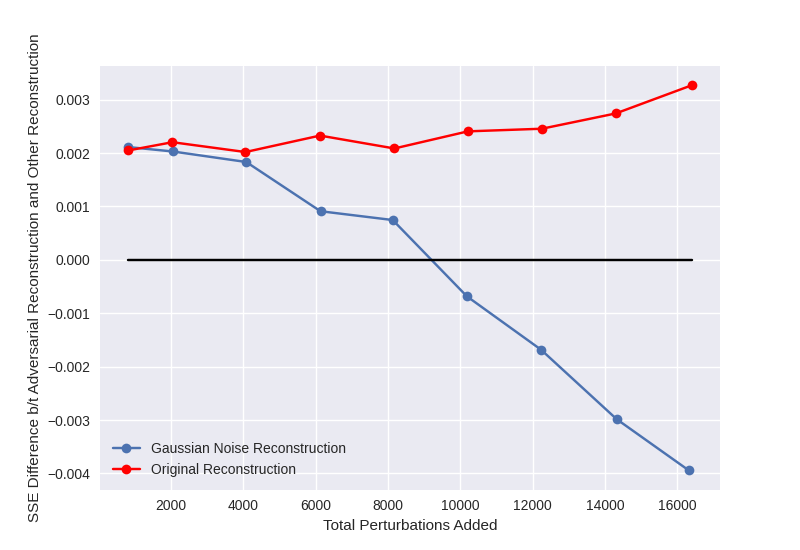
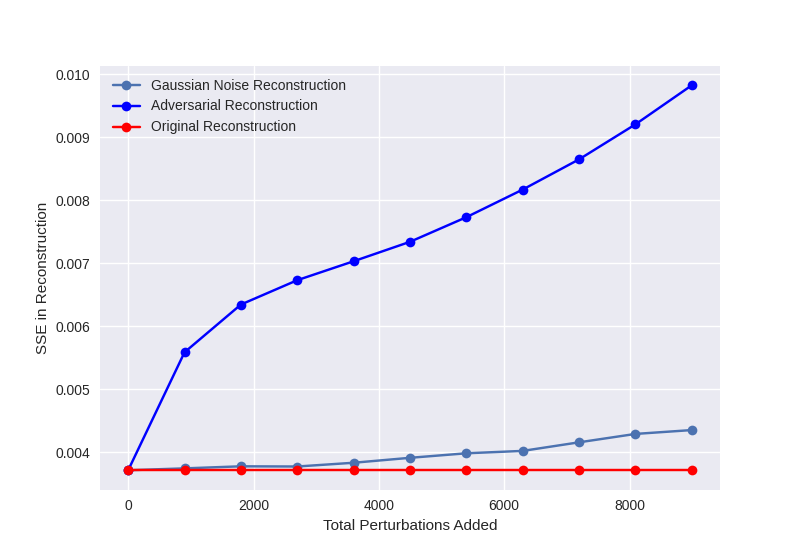
Working adversarial attack

diff --git a/corruptFourier.py b/corruptFourier.py
@@ -10,6 +10,7 @@ import matplotlib.pyplot as plt
 import tensorflow as tf
 import readData as rd
 import misc as sf
+from helper import *
 
 os.environ['TF_CPP_MIN_LOG_LEVEL'] = '2'
 os.environ['OMP_NUM_THREADS'] = '8'
@@ -23,137 +24,77 @@ directory = 'baselineModel'
 model_dir = cwd + '/' + directory
 load_chk_pt = tf.train.latest_checkpoint(model_dir)
 
-# Get data set
-tst_org, tst_inp = rd.get_validation_data(num_from=20, num_img=1, acc=4)
-mu = np.mean(tst_inp, axis=(-1, -2), keepdims=True)
-st = np.std(tst_inp, axis=(-1, -2), keepdims=True)
-tst_inp = (tst_inp - mu) / st
-tst_inp = np.clip(tst_inp, -6, 6)
-tst_org_adv = np.copy(tst_org)
 
-# Corrupt the input Fourier coefficients with Gaussian noise
-mean, std = mu[0][0][0], 0.2
-gauss_noise = np.random.normal(mean, std, tst_inp.shape)
-img_shape = np.shape(tst_inp)
-avg_perturb = np.sum(np.absolute(gauss_noise)) / (img_shape[0] * img_shape[1] * img_shape[2])
-tst_inp_gauss = np.copy(tst_inp) + gauss_noise
+epsilons = [0., 0.5, 1.0, 1.5, 2.0, 2.5, 3., 3.5, 4., 4.5, 5.]
+for epsilon in epsilons:
+    # Get data set
+    tst_org, tst_inp = rd.get_validation_data(num_from=20, num_img=1, acc=4)
+    mu = np.mean(tst_org, axis=(-1, -2), keepdims=True)
+    st = np.std(tst_org, axis=(-1, -2), keepdims=True)
+    tst_inp = (tst_inp - mu) / st
+    tst_inp = np.clip(tst_inp, -6, 6)
+    tst_org_adv = np.copy(tst_org)
+    tst_inp_orig = np.copy(tst_inp)
 
-# Load model and predict
-tst_org_adv = tst_org_adv[..., np.newaxis]
-tst_inp = tst_inp[..., np.newaxis]
-tst_rec = np.empty(tst_inp.shape, dtype=np.float32)
-tst_inp_gauss = tst_inp_gauss[..., np.newaxis]
-tst_rec_gauss = np.empty(tst_inp_gauss.shape, dtype=np.float32)
-tst_inp_adv = np.copy(tst_inp)
-tst_intr_adv = np.empty(tst_inp_adv.shape, dtype=np.float32)
-tst_rec_adv = np.empty(tst_inp_adv.shape, dtype=np.float32)
+    # Load model and predict
+    tst_org_adv = tst_org_adv[..., np.newaxis]
+    tst_inp = tst_inp[..., np.newaxis]
+    tst_rec = np.zeros(tst_inp.shape, dtype=np.float32)
+    tst_inp_adv = np.copy(tst_inp)
+    tst_intr_adv = np.zeros(tst_inp_adv.shape, dtype=np.float32)
+    tst_rec_adv = np.zeros(tst_inp_adv.shape, dtype=np.float32)
 
-# Initialize graph
-tf.compat.v1.reset_default_graph()
-with tf.compat.v1.Session(config=config) as sess:
-    new_saver = tf.compat.v1.train.import_meta_graph(model_dir + '/modelTst.meta')
-    new_saver.restore(sess, load_chk_pt)
-    graph = tf.compat.v1.get_default_graph()
-    predT = graph.get_tensor_by_name('predTst:0')
-    senseT = graph.get_tensor_by_name('sense:0')
+    # Initialize graph
+    tf.compat.v1.reset_default_graph()
+    with tf.compat.v1.Session(config=config) as sess:
+        new_saver = tf.compat.v1.train.import_meta_graph(model_dir + '/modelTst.meta')
+        new_saver.restore(sess, load_chk_pt)
+        graph = tf.compat.v1.get_default_graph()
+        predT = graph.get_tensor_by_name('predTst:0')
+        senseT = graph.get_tensor_by_name('sense:0')
 
-    # Run reconstruction for original and Gaussian noise samples
-    tst_rec[0] = sess.run(predT, feed_dict={senseT: tst_inp[[0]]})
-    tst_rec_gauss[0] = sess.run(predT, feed_dict={senseT: tst_inp_gauss[[0]]})
+        # Run reconstruction for original reconstruction
+        tst_rec[0] = sess.run(predT, feed_dict={senseT: tst_inp[[0]]})
 
-    # Get gradient of loss with respect to input
-    origT = tf.convert_to_tensor(tst_org_adv)
-    loss = tf.norm(predT - origT, ord='euclidean')
-    g = tf.gradients(loss, senseT)
-    sess.run(tf.global_variables_initializer())
-    grad = sess.run(g, feed_dict={senseT: tst_inp[[0]]})
+        # Get gradient of loss with respect to input
+        origT = tf.convert_to_tensor(tst_org_adv)
+        loss = tf.norm(origT - predT, ord='euclidean')
+        g = tf.gradients(loss, senseT)
+        grad = sess.run(g, feed_dict={senseT: tst_inp[[0]]})
 
-    # Create adversarial example and run reconstruction
-    epsilon = avg_perturb
-    sign_grad = np.sign(grad)
-    tst_intr_adv = epsilon * sign_grad[0]
-    tst_inp_adv[[0]] = tst_inp + tst_intr_adv
-    tst_rec_adv[0] = sess.run(predT, feed_dict={senseT: tst_inp_adv[[0]]})
+        # Create adversarial example and run reconstruction
+        tst_intr_adv = epsilon * np.copy(grad)[0]
+        tst_inp_adv += np.copy(tst_intr_adv)
+        tst_rec_adv[0] = sess.run(predT, feed_dict={senseT: tst_inp_adv[[0]]})
 
+        # Corrupt the input Fourier coefficients with Gaussian noise
+        mean, std = mu[0][0][0], st
+        gauss_noise = np.random.normal(mean, std, tst_inp_orig.shape)
+        gauss_noise = gauss_noise * (np.sum(np.absolute(tst_intr_adv)) / np.sum(np.absolute(gauss_noise)))
+        img_shape = np.shape(tst_inp_orig)
+        avg_perturb = np.sum(np.absolute(gauss_noise)) / (img_shape[0] * img_shape[1] * img_shape[2])
+        tst_inp_gauss = np.copy(tst_inp_orig) - np.copy(gauss_noise)
+        tst_inp_gauss = tst_inp_gauss[..., np.newaxis]
+        tst_rec_gauss = np.zeros(tst_inp_gauss.shape, dtype=np.float32)
+        
+        # Run reconstruction for Gaussian case
+        tst_rec_gauss[0] = sess.run(predT, feed_dict={senseT: tst_inp_gauss[[0]]})
 
-# Transform images into original shape
-tst_inp, tst_rec = tst_inp[..., 0], tst_rec[..., 0]
-tst_inp_gauss, tst_rec_gauss = tst_inp_gauss[..., 0], tst_rec_gauss[..., 0]
-tst_inp_adv, tst_intr_adv, tst_rec_adv = tst_inp_adv[..., 0], tst_intr_adv[..., 0], tst_rec_adv[..., 0]
-tst_inp, tst_rec = tst_inp * st + mu, tst_rec * st + mu
-tst_inp_gauss, tst_rec_gauss = tst_inp_gauss * st + mu, tst_rec_gauss * st + mu
-tst_inp_adv, tst_rec_adv = tst_inp_adv * st + mu, tst_rec_adv * st + mu
+    # Transform images into original shape
+    tst_inp = tst_inp[..., 0]
+    tst_rec = tst_rec[..., 0]
+    tst_inp_gauss = tst_inp_gauss[..., 0]
+    tst_rec_gauss = tst_rec_gauss[..., 0]
+    tst_inp_adv = tst_inp_adv[..., 0]
+    tst_intr_adv = tst_intr_adv[..., 0]
+    tst_rec_adv = tst_rec_adv[..., 0]
+    tst_inp, tst_rec = tst_inp * st + mu, tst_rec * st + mu
+    tst_inp_gauss, tst_rec_gauss = tst_inp_gauss * st + mu, tst_rec_gauss * st + mu
+    tst_inp_adv, tst_rec_adv = tst_inp_adv * st + mu, tst_rec_adv * st + mu
 
-# Calculate L2 Norm errors
-original_error = np.sqrt(np.sum((tst_rec[:, :, :] - tst_org[:, :, :]) ** 2))
-gaussian_error = np.sqrt(np.sum((tst_rec_gauss[:, :, :] - tst_org[:, :, :]) ** 2))
-adv_error = np.sqrt(np.sum((tst_rec_adv[:, :, :] - tst_org[:, :, :]) ** 2))
+    [original_error, gaussian_error, adv_error] = calculate_sse(tst_org, tst_rec, tst_rec_gauss, tst_rec_adv)
 
-# Calculate SSIM and PSNR
-psnr_orig = sf.psnr2(tst_org, tst_rec)
-psnr_gauss = sf.psnr2(tst_org, tst_rec_gauss)
-psnr_adv = sf.psnr2(tst_org, tst_rec_adv)
+    save_results('Apr13.npy', img_shape, original_error, gaussian_error, adv_error, avg_perturb)
 
-ssim_orig = sf.ssim2(tst_org, tst_rec)
-ssim_gauss = sf.ssim2(tst_org, tst_rec_gauss)
-ssim_adv = sf.ssim2(tst_org, tst_rec_adv)
+image_grid('end.png', tst_org, tst_inp, tst_rec, gauss_noise, tst_inp_gauss, tst_rec_gauss, tst_intr_adv, tst_inp_adv, tst_rec_adv)
 
-# Display reconstruction error results
-print('\nOriginal')
-print('SSE : {}'.format(original_error))
-print('PSNR : {}'.format(psnr_orig))
-print('SSIM : {}\n'.format(ssim_orig))
-
-print('Gaussian')
-print('SSE : {}'.format(gaussian_error))
-print('PSNR : {}'.format(psnr_gauss))
-print('SSIM : {}\n'.format(ssim_gauss))
-
-print('Adversarial')
-print('SSE : {}'.format(adv_error))
-print('PSNR : {}'.format(psnr_adv))
-print('SSIM : {}'.format(ssim_adv))
-
-# Subplot parameters
-rows, cols = 3, 3
-
-# Display original results
-original_images = [tst_org, tst_inp, tst_rec]
-original_titles = ['Original', 'FC', 'Reconstruct']
-for i in range(1, 4):
-    plt.subplot(rows, cols, i)
-    plt.imshow(original_images[i - 1][0], cmap='gray')
-    plt.title(original_titles[i - 1])
-    plt.axis('off')
-
-# Display Gaussian results
-gaussian_images = [gauss_noise, tst_inp_gauss, tst_rec_gauss]
-gaussian_titles = ['Mask', 'Gaussian FC', 'Gaussian Reconstruct']
-for i in range(1, 4):
-    plt.subplot(rows, cols, i + 3)
-    plt.imshow(gaussian_images[i - 1][0], cmap='gray')
-    plt.title(gaussian_titles[i - 1])
-    plt.axis('off')
-
-# Display adversarial results
-adv_images = [tst_intr_adv, tst_inp_adv, tst_rec_adv]
-adv_titles = ['Mask', 'Adv. FC', 'Adv. Reconstruct']
-for i in range(1, 4):
-    plt.subplot(rows, cols, i + 6)
-    plt.imshow(adv_images[i - 1][0], cmap='gray')
-    plt.title(adv_titles[i - 1])
-    plt.axis('off')
-
-plt.savefig('corrupt.png', bbox_inches='tight')
-
-'''
-from numpy import save, load
-diff_sse = adv_error - original_error 
-perturb = avg_perturb * (img_shape[0] * img_shape[1] * img_shape[2])
-sse_vs_perturb = load('data_orig.npy')
-sse_vs_perturb = np.append(sse_vs_perturb, [diff_sse, perturb, std])
-save('data_orig.npy', sse_vs_perturb)
-print(sse_vs_perturb)
-'''
-
-print(np.sum(np.absolute(tst_rec)))

diff --git a/helper.py b/helper.py
@@ -1,0 +1,93 @@
+
+import numpy as np
+import matplotlib.pyplot as plt
+import misc as sf
+from os import path
+
+def save_results(datafile, img_shape, original_error, gaussian_error, adv_error, avg_perturb):
+    from numpy import save, load
+
+    perturb = avg_perturb * (img_shape[0] * img_shape[1] * img_shape[2])
+    errors = [perturb, original_error, gaussian_error, adv_error]
+    if path.exists(datafile):
+        sse_vs_perturb = load(datafile)
+        sse_vs_perturb = np.append(sse_vs_perturb, errors)
+        save(datafile, sse_vs_perturb)
+    else:
+        save(datafile, errors)
+    print(errors)
+
+
+def image_grid(filename, tst_org, tst_inp, tst_rec, gauss_noise, tst_inp_gauss, tst_rec_gauss, tst_intr_adv, tst_inp_adv, tst_rec_adv):
+    # Subplot parameters
+    rows, cols = 3, 3
+
+    # Display original results
+    original_images = [tst_org, tst_inp, tst_rec]
+    original_titles = ['Original', 'FC', 'Reconstruct']
+    for i in range(1, 4):
+        plt.subplot(rows, cols, i)
+        plt.imshow(original_images[i - 1][0], cmap='gray')
+        plt.title(original_titles[i - 1])
+        plt.axis('off')
+
+    # Display Gaussian results
+    gaussian_images = [gauss_noise, tst_inp_gauss, tst_rec_gauss]
+    gaussian_titles = ['Mask', 'Gaussian FC', 'Gaussian Reconstruct']
+    for i in range(1, 4):
+        plt.subplot(rows, cols, i + 3)
+        plt.imshow(gaussian_images[i - 1][0], cmap='gray')
+        plt.title(gaussian_titles[i - 1])
+        plt.axis('off')
+
+    # Display adversarial results
+    adv_images = [tst_intr_adv, tst_inp_adv, tst_rec_adv]
+    adv_titles = ['Mask', 'Adv. FC', 'Adv. Reconstruct']
+    for i in range(1, 4):
+        plt.subplot(rows, cols, i + 6)
+        plt.imshow(adv_images[i - 1][0], cmap='gray')
+        plt.title(adv_titles[i - 1])
+        plt.axis('off')
+
+    plt.savefig(filename, bbox_inches='tight')
+
+
+def print_all_errors(tst_org, tst_rec, tst_rec_gauss, tst_rec_adv):
+    original_error, gaussian_error, adv_error = calculate_sse(tst_org, tst_rec, tst_rec_gauss, tst_rec_adv)
+    psnr_ssim = calculate_psnr_ssim(tst_org, tst_rec, tst_rec_gauss, tst_rec_adv)
+    psnr_orig, psnr_gauss, psnr_adv = psnr_ssim[0]
+    ssim_orig, ssim_gauss, ssim_adv = psnr_ssim[1]
+
+    print('\nOriginal')
+    print('SSE : {}'.format(original_error))
+    print('PSNR : {}'.format(psnr_orig))
+    print('SSIM : {}\n'.format(ssim_orig))
+
+    print('Gaussian')
+    print('SSE : {}'.format(gaussian_error))
+    print('PSNR : {}'.format(psnr_gauss))
+    print('SSIM : {}\n'.format(ssim_gauss))
+
+    print('Adversarial')
+    print('SSE : {}'.format(adv_error))
+    print('PSNR : {}'.format(psnr_adv))
+    print('SSIM : {}'.format(ssim_adv))
+
+
+def calculate_psnr_ssim(tst_org, tst_rec, tst_rec_gauss, tst_rec_adv):
+    psnr_orig = sf.psnr2(tst_org, tst_rec)
+    psnr_gauss = sf.psnr2(tst_org, tst_rec_gauss)
+    psnr_adv = sf.psnr2(tst_org, tst_rec_adv)
+
+    ssim_orig = sf.ssim2(tst_org, tst_rec)
+    ssim_gauss = sf.ssim2(tst_org, tst_rec_gauss)
+    ssim_adv = sf.ssim2(tst_org, tst_rec_adv)
+
+    return ([psnr_orig, psnr_gauss, psnr_adv], [ssim_orig, ssim_gauss, ssim_adv])
+
+
+def calculate_sse(tst_org, tst_rec, tst_rec_gauss, tst_rec_adv):
+    original_error = np.sqrt(np.sum((tst_rec[:, :, :] - np.copy(tst_org)[:, :, :]) ** 2))
+    gaussian_error = np.sqrt(np.sum((tst_rec_gauss[:, :, :] - np.copy(tst_org)[:, :, :]) ** 2))
+    adv_error = np.sqrt(np.sum((tst_rec_adv[:, :, :] - np.copy(tst_org)[:, :, :]) ** 2))
+    return [original_error, gaussian_error, adv_error]

diff --git a/plot_results.py b/plot_results.py
@@ -3,31 +3,22 @@ import numpy as np
 
 plt.style.use('seaborn')
 
-sse_data_gauss = np.load('data.npy')
-sse_data_orig = np.load('data_orig.npy')
+all_data = np.load('Apr13.npy')
+n = 4
+data = [all_data[k:k+n] for k in range(0, len(all_data), n)]
+data = np.asarray(data)
 
-# Group into threes 
-# (Adv SSE - Other SSE, Perturb, STD in Gauss noise)
-gauss_data = []
-it = iter(sse_data_gauss)
-for elem in it:
-    gauss_data.append([elem, next(it), next(it)])
-gauss_data[0], gauss_data[1] = gauss_data[1], gauss_data[0]
-gauss_x = [item[1] for item in gauss_data]
-gauss_y = [item[0] for item in gauss_data]
+# Group into fours 
+# (Perturb, Original Error, Gaussian Error, Adversarial Error)
+x = [item[0] for item in data]
+orig_y = [item[1] for item in data]
+gauss_y = [item[2] for item in data]
+adv_y = [item[3] for item in data]
 
-orig_data = []
-it = iter(sse_data_orig)
-for elem in it:
-    orig_data.append([elem, next(it), next(it)])
-orig_data[0], orig_data[1] = orig_data[1], orig_data[0]
-orig_x = [item[1] for item in orig_data]
-orig_y = [item[0] for item in orig_data]
-
-plt.plot(gauss_x, gauss_y, marker='o', label='Gaussian Noise Reconstruction')
-plt.plot(orig_x, orig_y, marker='o', color='r', label='Original Reconstruction')
-plt.plot(orig_x, len(orig_y) * [0], color='black')
-plt.ylabel('SSE Difference b/t Adversarial Reconstruction and Other Reconstruction')
+plt.plot(x, gauss_y, marker='o', label='Gaussian Noise Reconstruction')
+plt.plot(x, adv_y, marker='o', color='b', label='Adversarial Reconstruction')
+plt.plot(x, orig_y, marker='o', color='r', label='Original Reconstruction')
+plt.ylabel('SSE in Reconstruction')
 plt.xlabel('Total Perturbations Added')
-plt.legend(loc='lower left')
+plt.legend(loc='upper left')
 plt.savefig('sse_graph.png')
